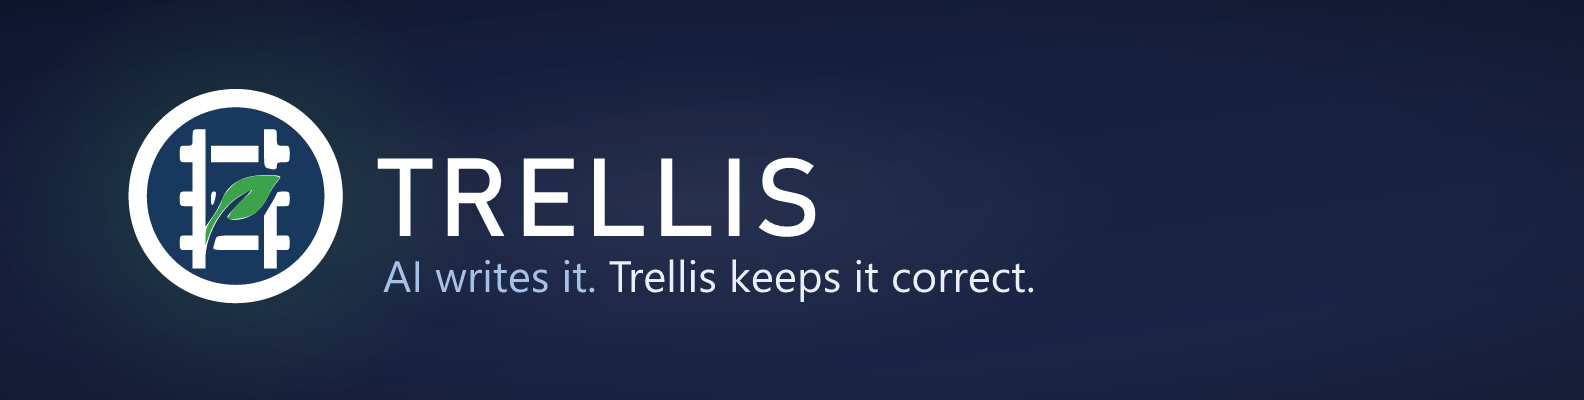
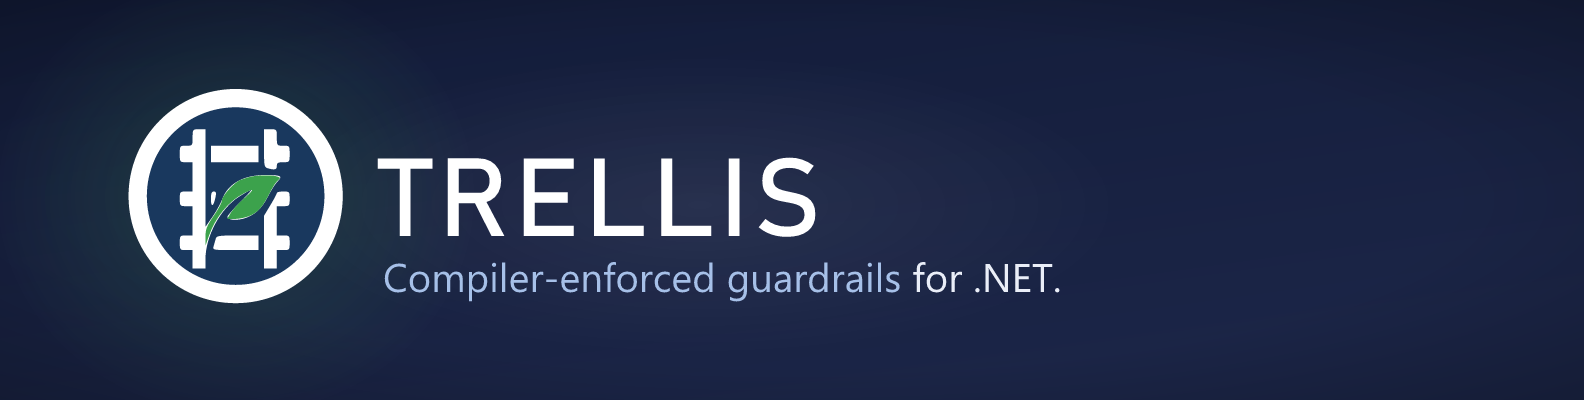
docs: reposition from AI-correctness claim to compiler/analyzer guardrails
Per external feedback (Scott Hanselman): the tagline 'AI writes it. Trellis keeps it correct.' overclaims - Trellis enforces structural correctness inside its patterns but cannot guarantee the domain model, aggregate boundaries, authorization, data consistency, or spec interpretation. Reposition the README hero + banner to the more defensible 'Compiler-enforced guardrails for .NET' (short) / 'An opinionated .NET service framework with compiler and analyzer guardrails that make generated code more predictable' (long). Soften 'it lands correct' to 'a whole class of common mistakes fails at build time.'

Changed region(s): [[0.2165, 0.63, 0.6806, 0.75]]

diff --git a/README.md b/README.md
@@ -12,12 +12,12 @@
 [![Documentation](https://img.shields.io/badge/docs-online-blue.svg)](https://xavierjohn.github.io/Trellis/)
 
 <p align="center">
-  <img src="docs/images/hero-banner.png" alt="Trellis — AI writes it. Trellis keeps it correct." />
+  <img src="docs/images/hero-banner.png" alt="Trellis — Compiler-enforced guardrails for .NET." />
 </p>
 
-> **AI writes it. Trellis keeps it correct.**
+> **Compiler-enforced guardrails for .NET.**
 
-Trellis is an AI-native framework for building reliable enterprise .NET services. It turns typed errors, validated value objects, and composable application pipelines into **compiler-enforced guardrails** — so whether a human or an AI assistant writes the code, it lands correct.
+Trellis is an opinionated .NET service framework with compiler and analyzer guardrails that make generated code more predictable. It turns typed errors, validated value objects, and composable application pipelines into structure the compiler can enforce — so a whole class of common mistakes fails at build time, whether the code is written by a human or an AI assistant.
 
 📺 **Watch the series:** [youtube.com/@trellisdev](https://www.youtube.com/@trellisdev) — Railway-Oriented Programming, Domain-Driven Design, and more.
 
@@ -48,7 +48,7 @@ return EmailAddress.TryCreate(request.Email)
 
 ## What You Get
 
-- **Compiler-enforced correctness** — Roslyn analyzers and types so illegal states don't compile; humans and AI stay on the happy path.
+- **Compiler-enforced guardrails** — Roslyn analyzers and types so a whole class of illegal states won't compile; humans and AI stay on the happy path.
 - `Result<T>` and `Maybe<T>` pipelines that make failures explicit — no exceptions for control flow.
 - Strongly typed value objects that eliminate primitive obsession.
 - DDD building blocks: `Aggregate`, `Entity`, `ValueObject`, `Specification`, and domain & integration events.
